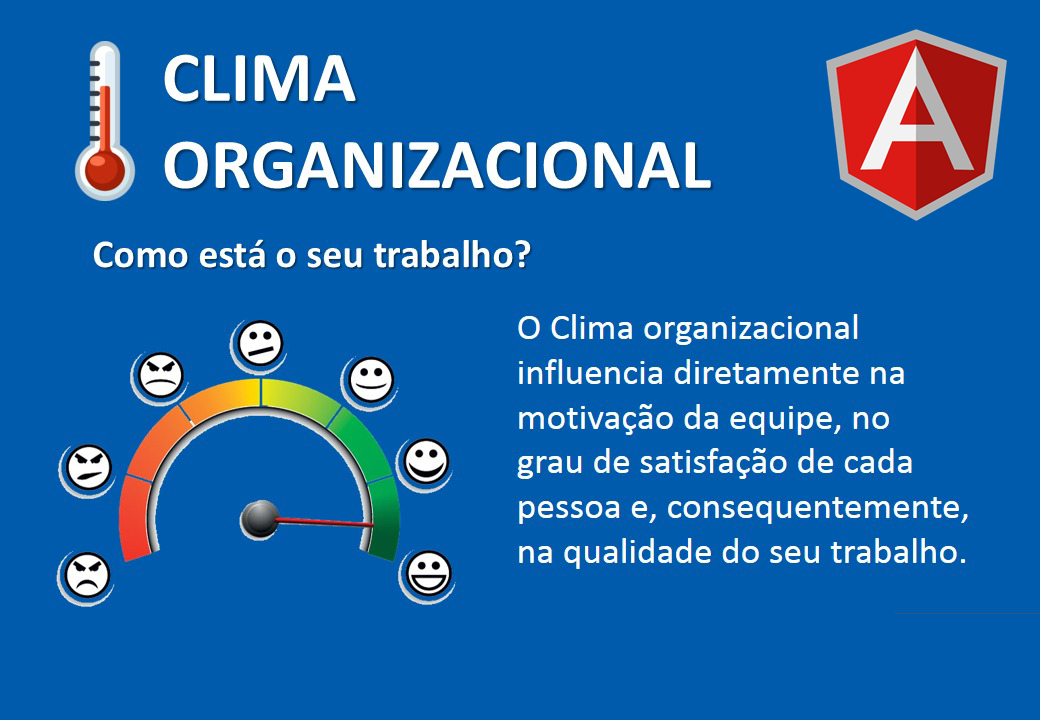
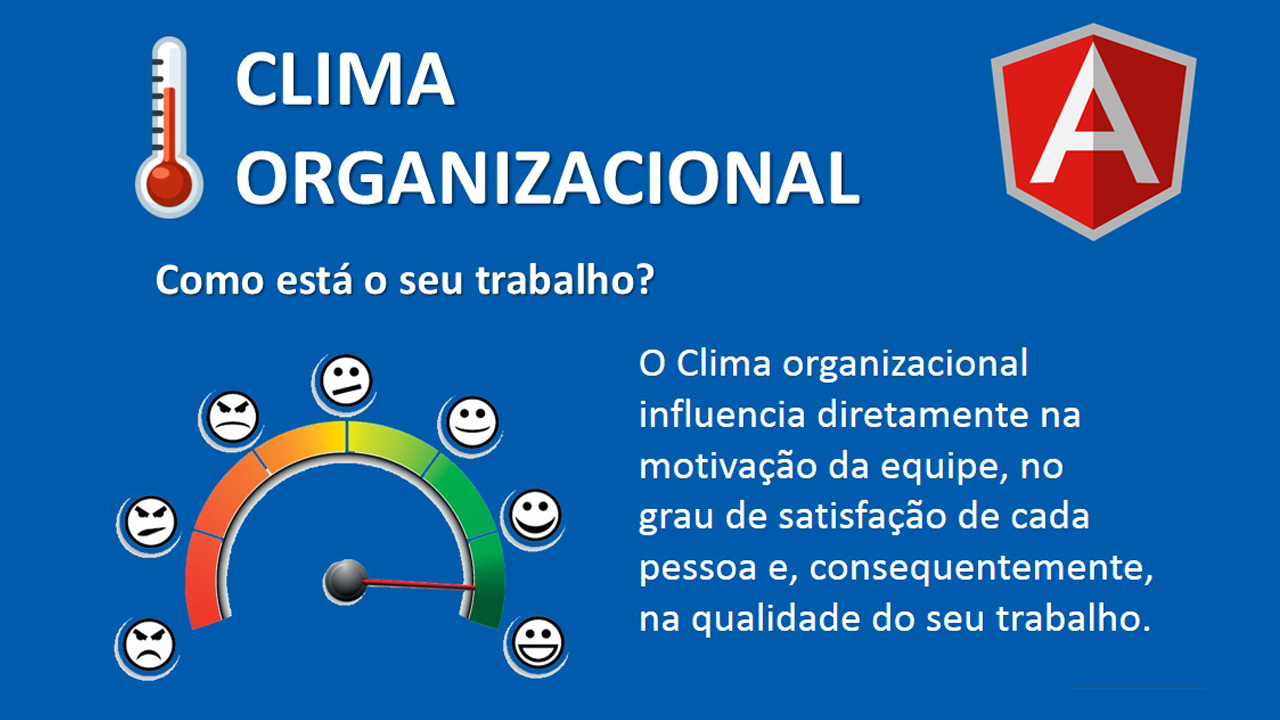
new articles

Changed region(s): [[0.0308, 0.3361, 0.9231, 0.9472], [0.0615, 0.0306, 0.7077, 0.3056], [0.7692, 0.0306, 0.9846, 0.3361]]

diff --git a/src/app/components/big-card/big-card.component.html b/src/app/components/big-card/big-card.component.html
@@ -3,7 +3,7 @@
         <img 
             src="{{ photoCover }}" 
             alt=""
-            height="260px" 
+            height="220px" 
             srcset=""
         >
     </div>
